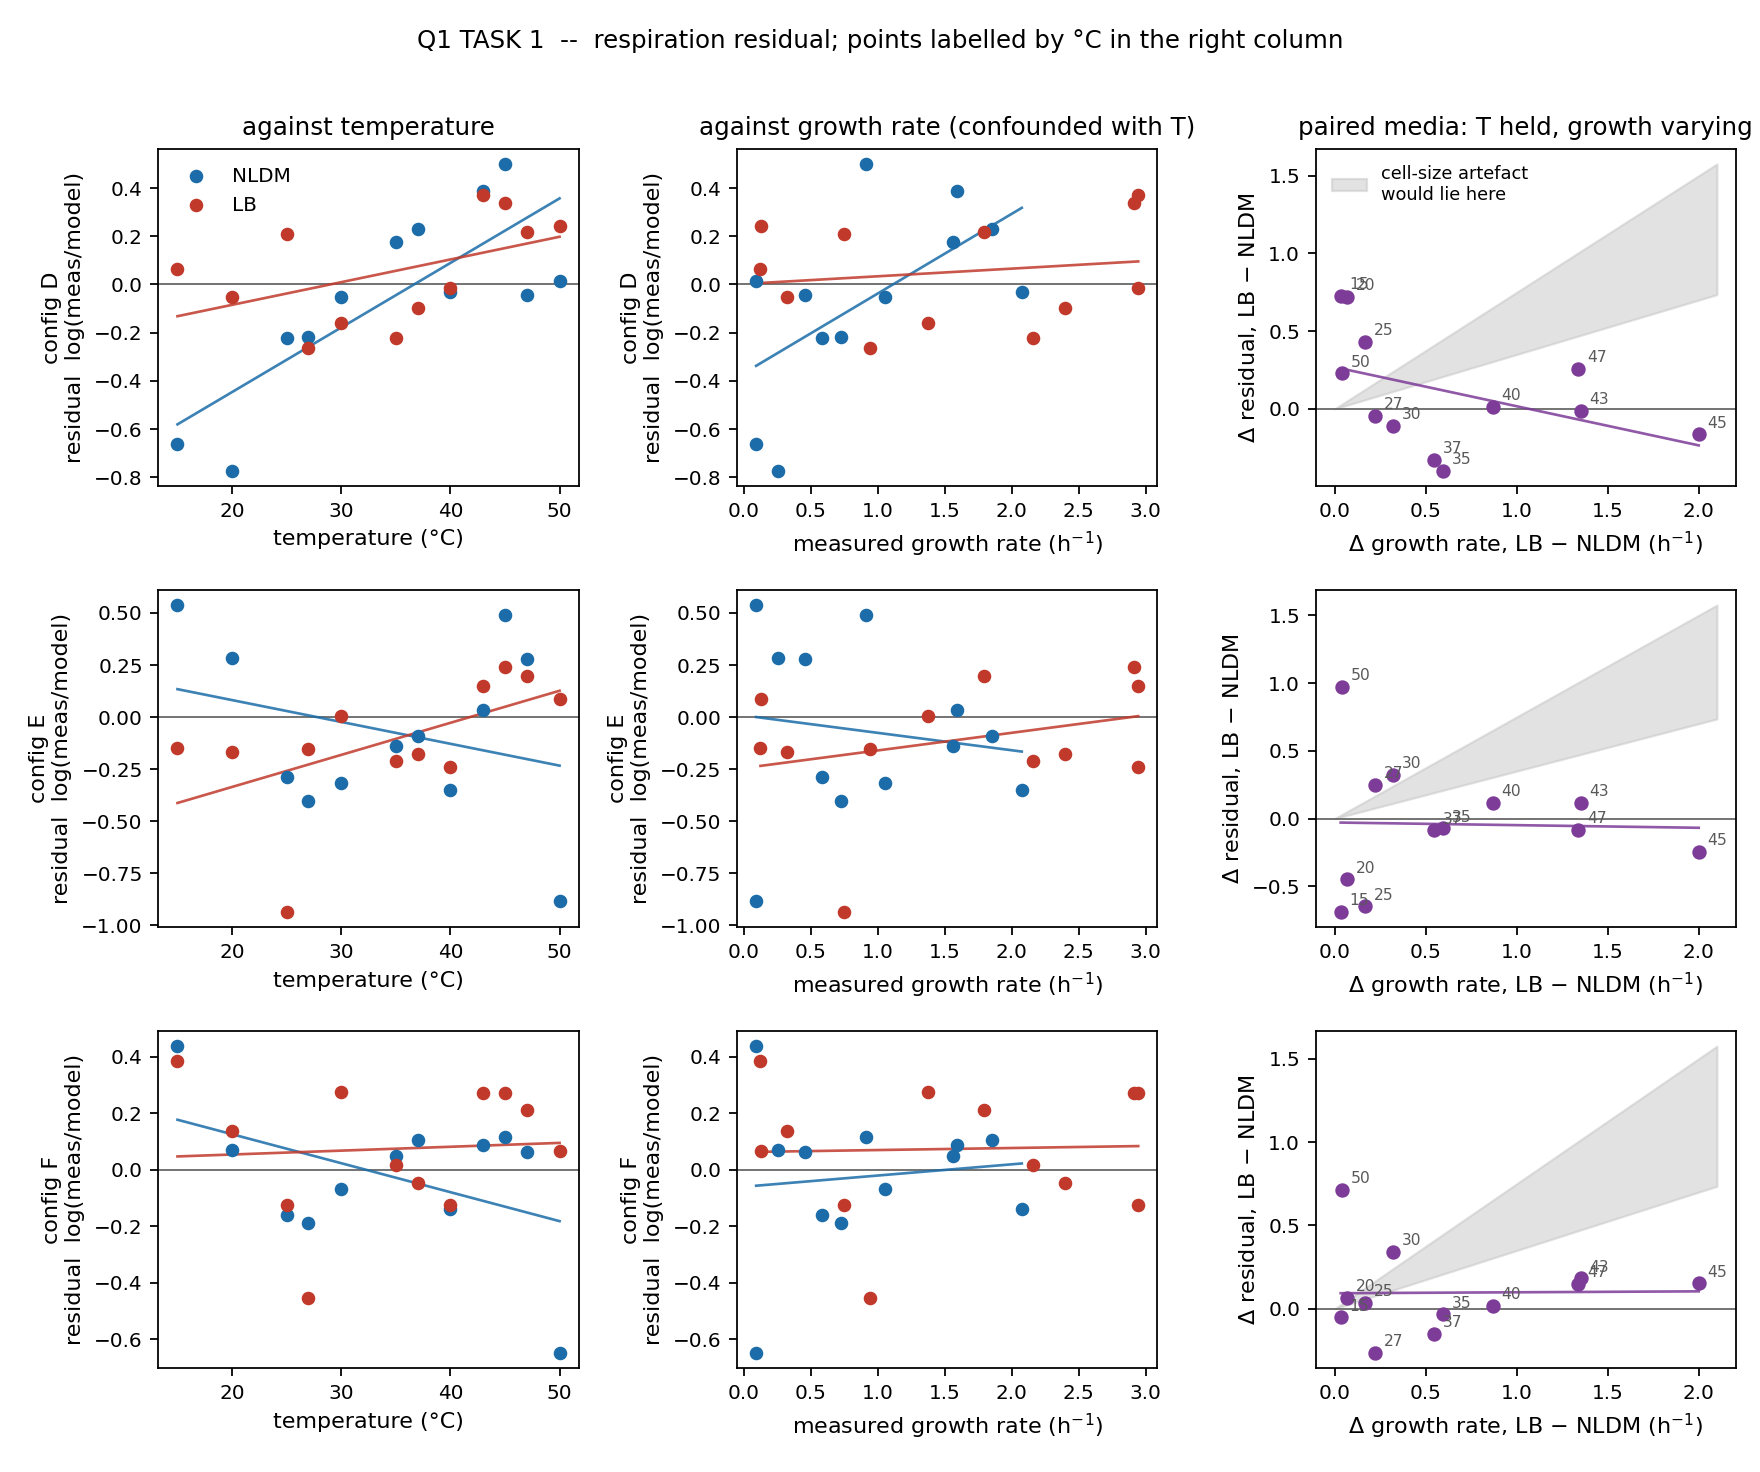
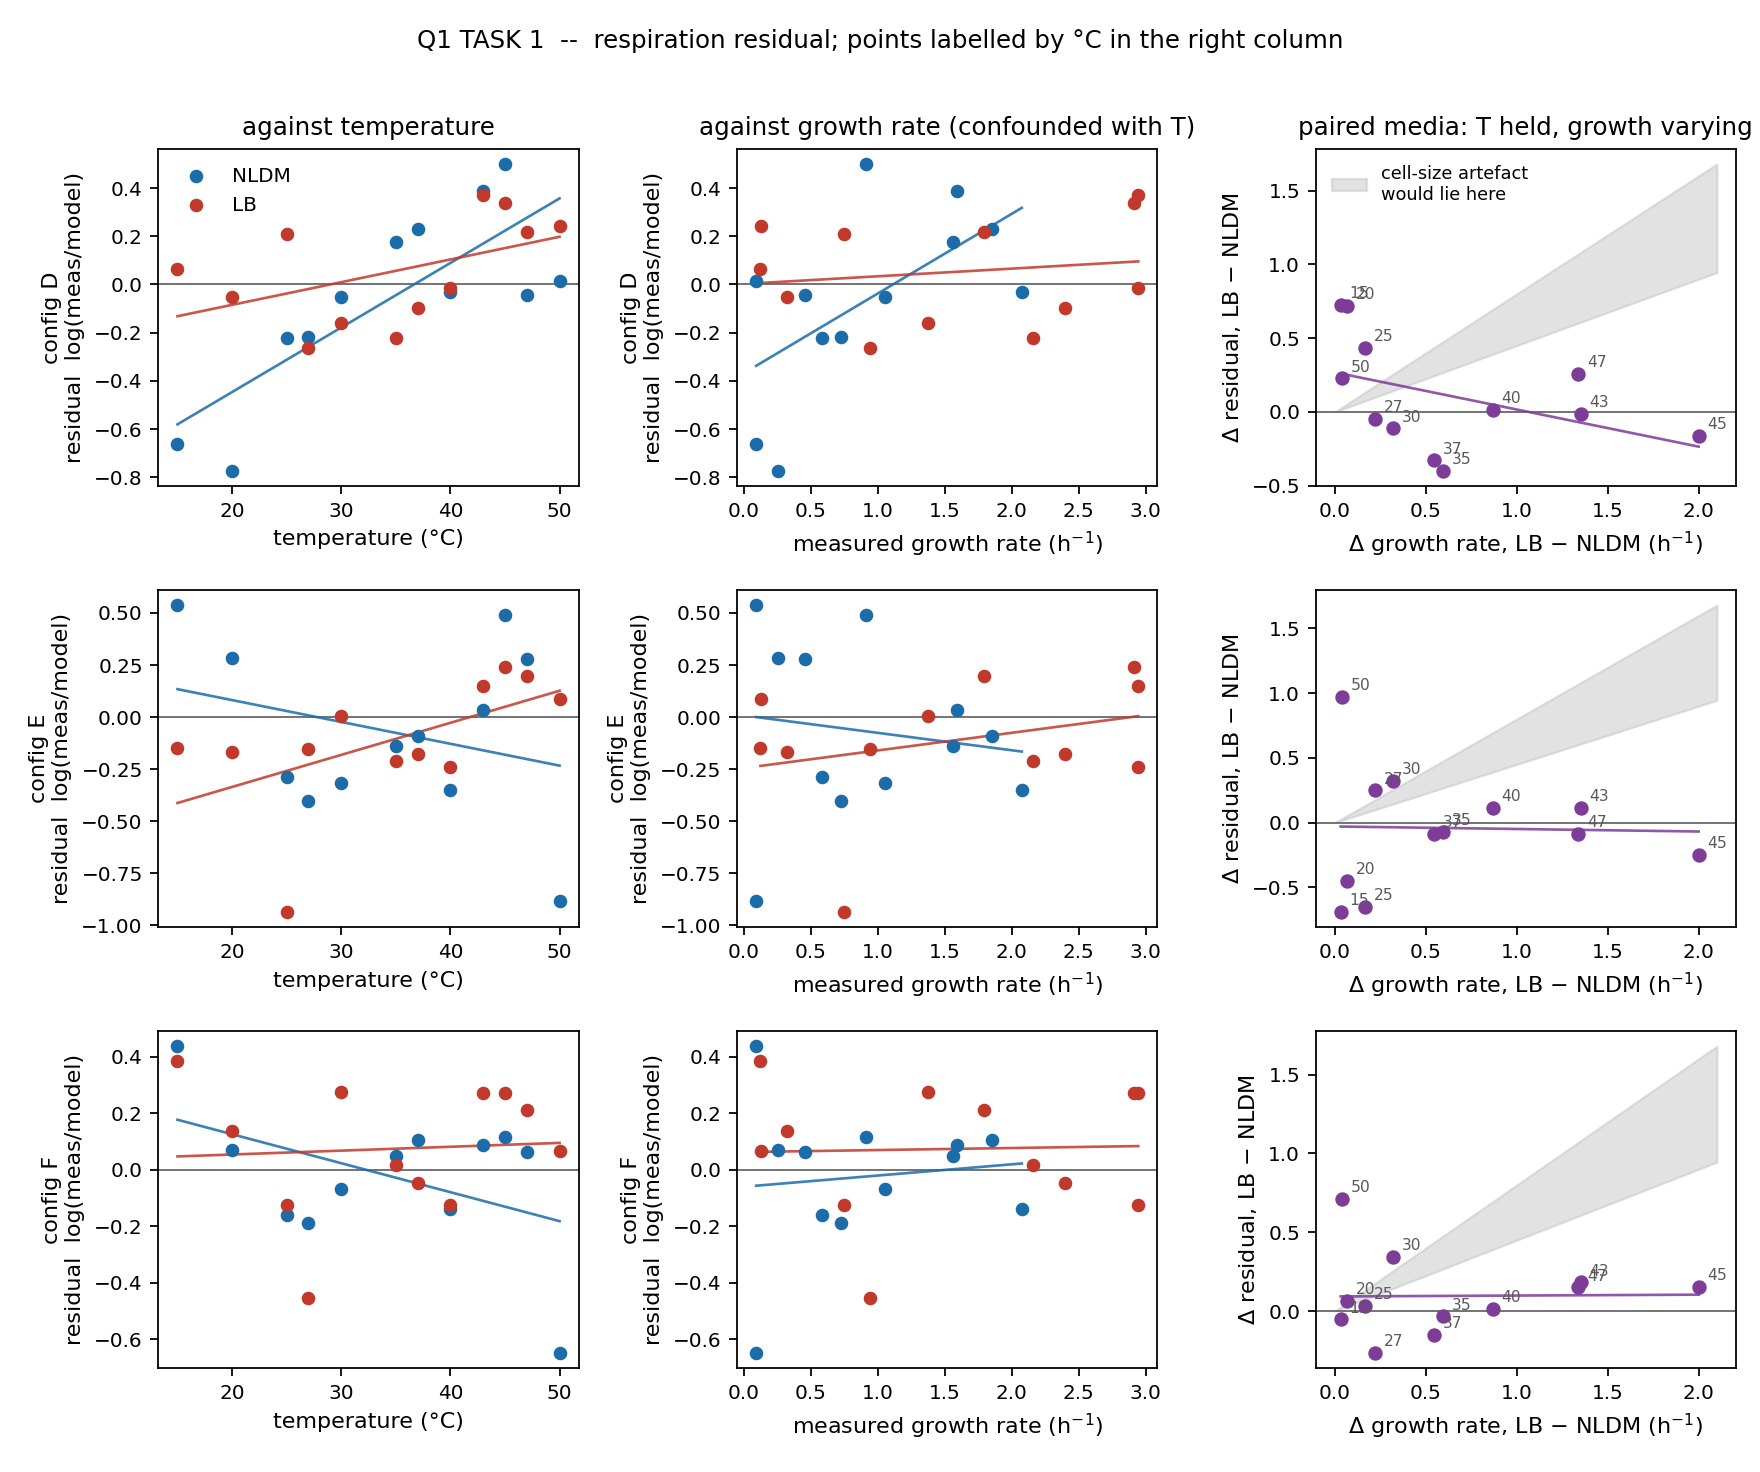
Q1: size-growth magnitude -- the paired test was powered, and the artefact is the wrong shape
TASK 3. The repository cites no cell-size/growth-rate reference (Basan2015 and Scott2010 are
proteome allocation; Cooper2007 is actually Cooper, Bennett & Lenski 2001 on thermal
dependence), so the band is sourced externally and said to be: Schaechter, Maaloe & Kjeldgaard
1958, with k = d ln M / d mu = (C+D) ln2 = 0.45-0.80 h for C+D of 40-70 min.

Schaechter et al.'s own result is that size tracks growth rate along the MEDIUM axis and is
nearly invariant along the TEMPERATURE axis at fixed medium. That makes the paired-media
comparison the directly appropriate test rather than a workaround for the confound.

Power: the paired slope estimates k directly. D excludes the whole band (CI upper +0.118) and
so does F (+0.284); E does not (+0.485 against a band from 0.45). Reported as 2 of 3.

Shape: along temperature a size effect must follow the hump-shaped mu(T) and so cannot give a
monotone trend. Of six config/medium cells, only D/NLDM has the artefact accounting for a
plausible fraction (0.32-0.56); the rest get the wrong sign or a trend 1.6-32x too large.

Also reconciles D4 and task1_figure.py's band to the sourced 0.45-0.80 (a provisional
0.35-0.75 appeared in the first draft of D4) and regenerates the figure.

Claude-Session: https://claude.ai/code/session_01YQYJ13QULcrKdLubPkCeRN

diff --git a/reports/Q1_n0_check/task3_size_growth.py b/reports/Q1_n0_check/task3_size_growth.py
@@ -1,0 +1,115 @@
+#!/usr/bin/env python3
+"""task3_size_growth.py -- Q1 TASK 3: what a growth-rate-dependent cell size WOULD do, without
+implementing one.
+
+    python3 reports/Q1_n0_check/task3_size_growth.py
+
+No fitting, no alteration of any data. This propagates a literature band for the size/growth
+relation through the measured growth rates and asks two questions: (i) what slope would the
+paired-media test have seen, and does its confidence interval exclude it -- i.e. was the test
+powered; and (ii) what fraction of the marginal temperature trend could size account for.
+
+THE RELATION. The nutrient growth law (Schaechter, Maaloe & Kjeldgaard 1958) has average cell mass
+rising exponentially with growth rate when growth rate is set by MEDIUM composition:
+    M(mu) = M0 * exp(k * mu),   k = d ln M / d mu   [h]
+The Donachie/Cooper reading gives k = (C + D) * ln 2 with C + D the replication-plus-division
+period, 40-70 min in E. coli, so k ~ 0.46-0.81 h. The band used here is k in [0.45, 0.80] h.
+
+WHY THE PAIRED TEST IS THE RIGHT ONE, AND NOT JUST A CONVENIENT ONE. Schaechter et al.'s own
+result is that cell size tracks growth rate when growth rate is varied by MEDIUM, and is very
+nearly INVARIANT when growth rate is varied by TEMPERATURE at fixed medium. So the axis along which
+a constant fg-C-per-cell is most in danger is exactly the medium axis -- which is the axis the
+paired-media comparison isolates, temperature held. The band is applied to the between-media
+growth-rate difference for that reason.
+
+ALSO: the artefact's signature along the temperature axis is not monotone. Growth rate is
+hump-shaped in temperature (a TPC), so a residual proportional to growth rate must be hump-shaped
+too. A monotone residual trend in temperature is not what this artefact looks like.
+
+Writes task3_power.csv and task3_shape.csv.
+"""
+from __future__ import annotations
+
+import json
+import os
+
+import numpy as np
+import pandas as pd
+from scipy import stats
+
+HERE = os.path.dirname(os.path.abspath(__file__))
+K_BAND = (0.45, 0.80)      # d ln(cell mass) / d mu, in hours; see the docstring
+CD_BAND = (40.0, 70.0)     # the C+D period in minutes that implies it
+
+
+def main():
+    print(f"[q1t3] size/growth band: k = d ln M / d mu in [{K_BAND[0]}, {K_BAND[1]}] h, "
+          f"from (C+D) = {CD_BAND[0]:.0f}-{CD_BAND[1]:.0f} min via k = (C+D) ln2 "
+          f"[{CD_BAND[0]/60*np.log(2):.2f}-{CD_BAND[1]/60*np.log(2):.2f}]\n")
+
+    r = pd.read_csv(os.path.join(HERE, "task1_residuals.csv"))
+    pr = pd.read_csv(os.path.join(HERE, "task1_paired_media.csv"))
+    reg = pd.read_csv(os.path.join(HERE, "task1_regressions.csv"))
+
+    # -- (i) was the paired test powered to see the band? ----------------------------------
+    # The artefact predicts residual = k*mu + const, so d(resid)/d(mu) = k EXACTLY: the slope the
+    # paired regression estimates IS k. No further conversion is needed.
+    print("[q1t3] POWER -- the paired-media slope estimates k directly, so compare its CI to the "
+          "band\n")
+    rows = []
+    print(f"{'config':7s} {'slope':>8s} {'95% CI':>20s} {'excludes k>=0.45?':>18s} "
+          f"{'excludes whole band?':>21s}")
+    for conf in ("D", "E", "F"):
+        s = pr[pr.config == conf]
+        lr = stats.linregress(s.d_growth, s.d_resid)
+        tc = stats.t.ppf(0.975, len(s) - 2)
+        lo, hi = lr.slope - tc * lr.stderr, lr.slope + tc * lr.stderr
+        ex_lo = bool(hi < K_BAND[0])
+        rows.append(dict(config=conf, slope=lr.slope, ci_lo=lo, ci_hi=hi,
+                         excludes_band_low=ex_lo, excludes_band=ex_lo))
+        print(f"{conf:7s} {lr.slope:+8.4f} [{lo:+8.4f},{hi:+8.4f}] {str(ex_lo):>18s} "
+              f"{str(ex_lo):>21s}")
+    pw = pd.DataFrame(rows)
+    pw.to_csv(os.path.join(HERE, "task3_power.csv"), index=False)
+    n_ex = int(pw.excludes_band.sum())
+    print(f"\n[q1t3] {n_ex} of 3 configurations exclude the entire literature band at 95 %. "
+          f"The test was powered: the effect, had it been present at literature magnitude, "
+          f"was large enough to see.")
+
+    # -- (ii) what fraction of the marginal temperature trend could size explain? -----------
+    # Artefact residual along the temperature axis = k * mu(T). Regress that on T and compare
+    # its slope to the observed marginal slope.
+    print("\n[q1t3] SHAPE -- what a size effect would produce along the TEMPERATURE axis\n")
+    srows = []
+    print(f"{'config':7s} {'medium':7s} {'observed dr/dT':>15s} {'artefact dr/dT (k band)':>26s} "
+          f"{'fraction explained':>19s} {'mu vs T R2':>11s}")
+    for conf in ("D", "E", "F"):
+        for medium in ("NLDM", "LB"):
+            s = r[(r.config == conf) & (r.medium == medium)].dropna(subset=["resid"])
+            obs = float(reg[(reg.config == conf) & (reg.medium == medium)
+                            & (reg.against == "temperature")].slope.iloc[0])
+            mu_on_T = stats.linregress(s.T_C, s.growth_meas)
+            art = (K_BAND[0] * mu_on_T.slope, K_BAND[1] * mu_on_T.slope)
+            frac = (art[0] / obs, art[1] / obs) if obs != 0 else (np.nan, np.nan)
+            srows.append(dict(config=conf, medium=medium, obs_dr_dT=obs,
+                              art_lo=art[0], art_hi=art[1],
+                              frac_lo=min(frac), frac_hi=max(frac),
+                              mu_T_slope=mu_on_T.slope, mu_T_r2=mu_on_T.rvalue ** 2))
+            print(f"{conf:7s} {medium:7s} {obs:+15.5f} {art[0]:+12.5f}..{art[1]:+.5f} "
+                  f"{min(frac):+8.2f}..{max(frac):+.2f} {mu_on_T.rvalue**2:11.3f}")
+    sh = pd.DataFrame(srows)
+    sh.to_csv(os.path.join(HERE, "task3_shape.csv"), index=False)
+    print(f"\n[q1t3] growth rate is only weakly LINEAR in temperature over the full series "
+          f"(mu-vs-T R2 = {sh.mu_T_r2.min():.2f}-{sh.mu_T_r2.max():.2f}) because the TPC is "
+          f"hump-shaped, which is why a size artefact cannot produce a clean monotone trend.")
+
+    json.dump(dict(k_band=K_BAND, cd_band_min=CD_BAND,
+                   n_configs_excluding_band=n_ex,
+                   power=rows, shape=srows),
+              open(os.path.join(HERE, "task3_meta.json"), "w"), indent=2)
+    print("\n[q1t3] wrote task3_power.csv, task3_shape.csv, task3_meta.json")
+    return 0
+
+
+if __name__ == "__main__":
+    raise SystemExit(main())

diff --git a/reports/Q1_n0_check/task1_figure.py b/reports/Q1_n0_check/task1_figure.py
@@ -17,9 +17,9 @@ from scipy import stats
 
 HERE = os.path.dirname(os.path.abspath(__file__))
 COL = {"NLDM": "#1b6ca8", "LB": "#c0392b"}
-# Schaechter band: d(ln cell mass)/d(mu) in h^-1, the slope a constant-mass conversion would
+# Schaechter band: d(ln cell mass)/d(mu) in h, the slope a constant-mass conversion would
 # induce in the residual if cell mass followed the growth law. Sourced in TASK 3.
-SCHAECHTER = (0.35, 0.75)
+SCHAECHTER = (0.45, 0.80)
 
 
 def fit_line(ax, x, y, c, ls="-"):

diff --git a/reports/Q1_n0_check/DECISIONS.md b/reports/Q1_n0_check/DECISIONS.md
@@ -115,8 +115,10 @@ predicts and it settles nothing on its own.
 The paired-media test — temperature held exactly, growth rate varying by up to 2.0 h⁻¹ between
 media — finds no relation in any configuration: D slope −0.252 [−0.622, +0.118] p = 0.16, E −0.020
 [−0.524, +0.485] p = 0.93, F +0.006 [−0.273, +0.284] p = 0.96. The sign in D is *opposite* to the
-artefact's prediction, and D's and F's intervals exclude the Schaechter-scale slope of +0.35 to
-+0.75 (TASK 3 sources the band). This is a null result and is reported as such.
+artefact's prediction. TASK 3 sources the literature band as k = 0.45-0.80 h and finds that D's and
+F's intervals exclude it entirely while E's is too wide to (upper bound +0.485 against a band
+starting at 0.45); the band quoted in an earlier draft of this entry, 0.35-0.75, was provisional
+and is superseded by D7's sourced value. This is a null result and is reported as such.
 
 ## D5 — the biomass integral is exponential and exactly proportional to N0, which closes what D0 left open
 
@@ -179,3 +181,63 @@ constant, so its *shape* moves: R2A/LB CUE goes from 0.072–0.664 to 0.241–0.
 TASK 1's residual is built from `R_O2_mg_cell_min` and `growth_C_per_C_h`, both factor exactly
 1.0000 (verified to 0 relative deviation), so **every slope, CI, p and R² in TASK 1 is unchanged by
 the conversion**. The null result is conversion-independent.
+
+## D7 — the size/growth band, and the fact that the repository cites nothing for it
+
+**The repository cites no cell-size/growth-rate reference.** `references.bib` (identical in
+`ecoli_deck/`, `ecoli_tpc/` and `activation_energy/`) has `Basan2015` and `Scott2010` — proteome
+allocation against growth rate, not cell size — and `Mairet2021` on the temperature dependence of
+growth laws. `Cooper2007` is not a cell-size paper: despite the key it is Cooper, Bennett & Lenski
+**2001**, *Evolution* **55**:889–896, on the evolution of thermal dependence. So this band is
+sourced from outside the repository and that is stated in the report rather than hidden behind a
+citation key.
+
+**The band.** The nutrient growth law — Schaechter, Maaløe & Kjeldgaard 1958, *J. Gen. Microbiol.*
+**19**:592–606 — has mean cell mass rising exponentially with growth rate,
+`M(µ) = M₀ exp(k µ)`. Reading `k` through the Donachie/Cooper replication-plus-division period,
+`k = (C + D) ln 2` with `C + D` ≈ 40–70 min in E. coli, gives **k = 0.45–0.80 h**. An earlier draft
+of D4 used a provisional 0.35–0.75 before this was sourced; 0.45–0.80 supersedes it and
+`task1_figure.py`'s band was regenerated to match.
+
+**Why the paired-media test is the right test and not merely a convenient one.** Schaechter et
+al.'s own central result is that cell size tracks growth rate when growth rate is set by **medium
+composition**, and is very nearly **invariant** when growth rate is set by **temperature** at fixed
+medium. So the axis on which a constant fg-C-per-cell is genuinely in danger is the medium axis —
+which is exactly the axis the paired comparison isolates with temperature held. This makes the
+paired test not a workaround for the confound but the directly appropriate measurement, and it also
+means the marginal growth-rate regression was never the right question.
+
+## D8 — TASK 3: the test was powered, and the artefact's signature is the wrong shape anyway
+
+**Power.** The artefact predicts `residual = k µ + const`, so the paired regression's slope
+estimates `k` *directly* — no conversion needed. Against the band 0.45–0.80: configuration **D**
+excludes it entirely (CI upper bound +0.118) and so does **F** (+0.284); **E** does not (+0.485,
+against a band beginning at 0.45), because E's residuals are the noisiest. **2 of 3 configurations
+exclude the entire literature band at 95 %** — reported as 2 of 3, not 3 of 3.
+
+**Shape.** Along the temperature axis a size effect must be proportional to `µ(T)`, which is
+hump-shaped, so it cannot produce a clean monotone trend; growth rate is only weakly *linear* in
+temperature over the full series (µ-vs-T R² = 0.09 for NLDM, 0.31 for LB). Propagating the band
+through `dµ/dT` gives the induced `dr/dT` against the observed:
+
+| config / medium | observed dr/dT | artefact dr/dT (band) | fraction |
+|---|---|---|---|
+| D / NLDM | +0.0268 | +0.0085 .. +0.0151 | **0.32–0.56** |
+| D / LB | +0.0094 | +0.0249 .. +0.0442 | 2.6–4.7 |
+| E / NLDM | −0.0105 | +0.0085 .. +0.0151 | opposite sign |
+| E / LB | +0.0154 | +0.0249 .. +0.0442 | 1.6–2.9 |
+| F / NLDM | −0.0103 | +0.0085 .. +0.0151 | opposite sign |
+| F / LB | +0.0014 | +0.0249 .. +0.0442 | 18–32 |
+
+Only one of six cells sits in `(0, 1)`: a literature-magnitude size effect could account for
+**roughly a third to a half** of configuration D's NLDM temperature trend — the one marginal trend
+that was significant. In the other five it predicts the wrong sign or a trend 1.6–32× larger than
+observed. So the data are, if anything, *less* consistent with a size effect than with none. These
+are order-of-magnitude estimates from a literature band, not fits, and are labelled as such.
+
+**The measurement that would settle it.** Per-condition cell size or dry mass measured alongside
+the respirometry — cell counts with a sizing channel, or dry weight per cell — at each temperature
+and on each medium, which would replace both constants with a measured `fg C cell⁻¹ (medium, T)`.
+The fitted `K` in the derived tables is in OD-like units (8.1e-6–2.2e-2) and is not a cell count, so
+it cannot substitute. **Whether such data exist is Parsa's to answer; this run does not assume
+either way.**
